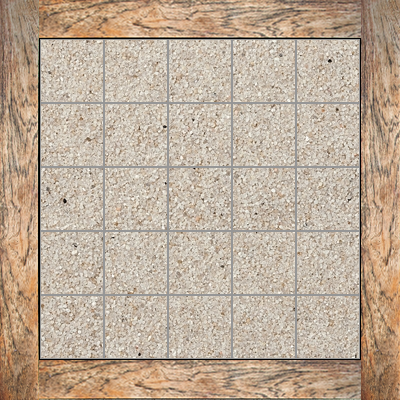
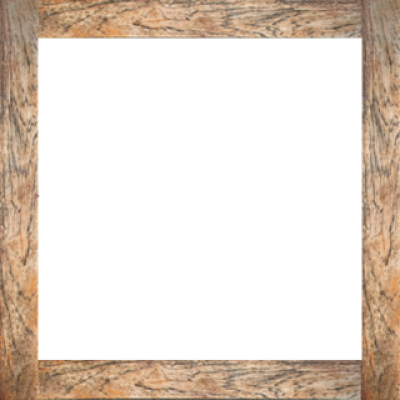
Croix au milieu, tableau fonctionnel pour les ordi de l'iut. Je m'attelle sur le responsive

diff --git a/src/Model/ModelTest.java b/src/Model/ModelTest.java
@@ -48,17 +48,28 @@ public class ModelTest {
     }
 
     public void changementJoueur(){
-        if (getPosJoueurActuel() == nbJoueur-1){
-            setJoueurActuel(0);
-            nbChangementJoueur=0;
-            faireUnNouveauTour = true;
+        if(nbJoueur>2) {
+            if (getPosJoueurActuel() == nbJoueur - 1) {
+                setJoueurActuel(0);
+                faireUnNouveauTour = true;
+            } else {
+                setJoueurActuel(getPosJoueurActuel() + 1);
+                faireUnNouveauTour = false;
+                nbChangementJoueur++;
+            }
         }
-        else{
-            setJoueurActuel(getPosJoueurActuel()+1);
-            faireUnNouveauTour = false;
-            nbChangementJoueur ++;
+        else {
+            for (int i =0; i<2; i++) {
+                if (getPosJoueurActuel() == nbJoueur - 1) {
+                    setNbJoueur(0);
+                } else {
+                    setJoueurActuel(getPosJoueurActuel() + 1);
+                    faireUnNouveauTour = false;
+                    nbChangementJoueur++;
+                }
+            }
+            faireUnNouveauTour= true;
         }
-
     }
 
     public void nouveauIndextourSuivant(int posDom){
@@ -66,7 +77,7 @@ public class ModelTest {
     }
 
     public void nouveauTour(){
-        System.out.println("nex turn");
+        System.out.println("next turn");
 	    setFaireUnNouveauTour(false);
 	    dominoDejaPlace = new boolean[4];
         for (int i = 0; i < nbJoueur; i++) {

diff --git a/src/Vues/FenetreTest.java b/src/Vues/FenetreTest.java
@@ -154,9 +154,7 @@ FenetreTest extends JFrame {
 		device = GraphicsEnvironment.getLocalGraphicsEnvironment().getScreenDevices()[0];
 		jFrame = new JFrame("KingDomino");
 		fondKing = ImageIO.read(new File("img/kingdomino_fond.jpg"));
-		instruction_img = ImageIO.read(new File("img/instruction_1.png"));
 		instruction_img2 = ImageIO.read(new File("img/instruction_2.png"));
-		instruction_img3 = ImageIO.read(new File("img/instruction_3.png"));
 		instructionTab = new Image[] {instruction_img, instruction_img2, instruction_img3};
 
 		setFullscreen(jFrame);
@@ -388,7 +386,7 @@ FenetreTest extends JFrame {
 
 
 	public void afficherJeu() throws IOException {
-		nomJoueurActif = new JLabel("C'est au tour du joueur d : " + model.getJoueurActuel().getNom());
+		nomJoueurActif = new JLabel("C'est au tour du joueu : " + model.getJoueurActuel().getNom());
 		nomJoueurActif.setFont(new Font("Helvetica", Font.BOLD, 30));
 		jFrame.add(nomJoueurActif,BorderLayout.NORTH);
 		initAtributJeu();

diff --git a/src/Vues/JPanelRoyaume.java b/src/Vues/JPanelRoyaume.java
@@ -29,11 +29,11 @@ public class JPanelRoyaume extends JPanel {
         JLabel nomJoueur = new JLabel(joueur.getNom());
         nomJoueur.setForeground (Color.blue);
         nomJoueur.setFont(new Font("Helvetica",Font.PLAIN,20));
-        nomJoueur.setBorder(new EmptyBorder(0,130,5,0));
+        nomJoueur.setBorder(new EmptyBorder(35,130,5,0));
         this.add(nomJoueur,BorderLayout.NORTH);
         this.add(panelRoyaume);
         setOpaque(false);
-        setBorder(new EmptyBorder(20,40,170,40));
+        setBorder(new EmptyBorder(0,40,140,40));
 
     }
 
@@ -49,7 +49,7 @@ public class JPanelRoyaume extends JPanel {
 
     private void initBoutonPanel() throws IOException {
 
-        croix = ImageIO.read(new File("img/croix.png"));
+        croix = ImageIO.read(new File("img/caseSable.png"));
         final BufferedImage depart = ImageIO.read(new File("img/Tuile16.jpg"));
 
         for (int i = 0; i < 5; i++) {
